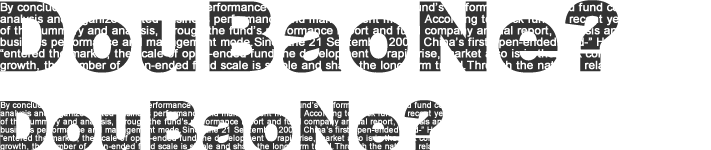
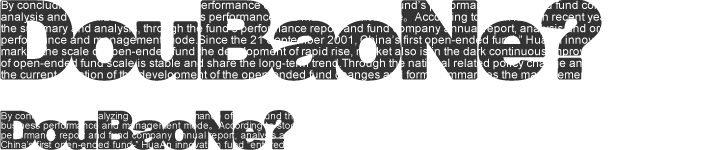
css

diff --git a/assets/themes/custom/css/style.css b/assets/themes/custom/css/style.css
@@ -13,14 +13,14 @@ html, body {
 .brand{
     position: absolute;
     width: 300px;
-    bottom:5px;
-	height: 39px;
+    bottom:3px;
+	height: 40px;
 	text-indent: -9999em;
 	background: url(../images/bg_title.png) no-repeat;
 	background-position: 0 bottom;
 }
 .page-Home .brand{
-	height: 79px;
+	height: 81px;
     width: 620px;
     bottom: 10px;
     background-position: 0 top;

diff --git a/assets/themes/custom/css/mobile.css b/assets/themes/custom/css/mobile.css
@@ -13,7 +13,7 @@
 }
 .page-Home .brand{
     width: 300px;
-    height: 39px;
+    height: 40px;
     background-position: 0 bottom;
 }
 @media screen and (-webkit-min-device-pixel-ratio:0) {
